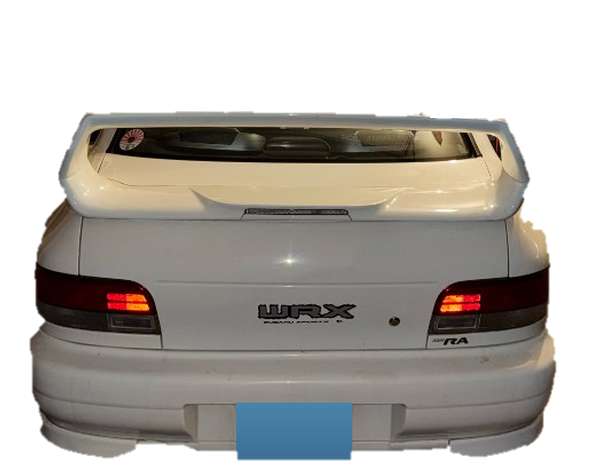
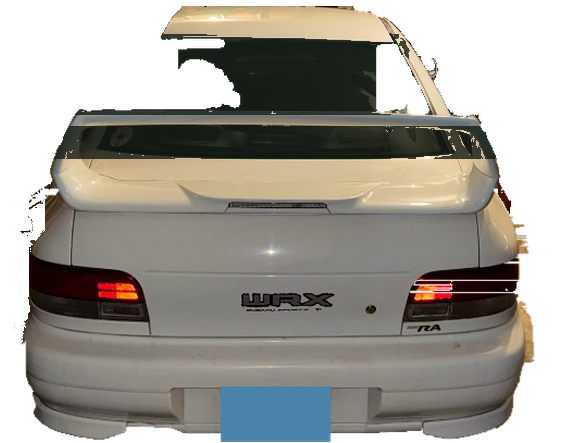
Finish the player WRX so the rear is complete, the glass is tinted, and paint recolors the body.

Changed region(s): [[0.0302, 0.0, 0.9663, 0.9977], [0.4227, 0.6456, 0.6039, 0.7043], [0.4529, 0.5282, 0.5133, 0.5869]]

diff --git a/index.html b/index.html
@@ -2291,7 +2291,7 @@
   const WRX_NEAR_IMG = new Image();
   WRX_NEAR_IMG.src = 'assets/wrx-near.png';
   const WRX_BASE_W = 62;
-  const WRX_GROUND = 0.979;
+  const WRX_GROUND = 0.995;
   // Single pipe, left of the plate, on the shared bumper anchor.
   const WRX_TIPS = [{ fx: 0.36, fy: 0.975, spread: 0 }];
   const overlay = document.getElementById('overlay');
@@ -5487,6 +5487,9 @@
           if (look.id === 'paint') {
             paintSheet = null;
             paintSheetKey = '';
+            wrxPaintFar = null;
+            wrxPaintNear = null;
+            wrxPaintKey = '';
           }
           saveLookColors();
           saveLooks();
@@ -6660,25 +6663,19 @@
     { model: 'Tesla Model S Plaid', kind: 'sports', weight: 2, cool: true, colors: ['#1c2833', '#c0392b', '#ecf0f1', '#148f77'], bodyScale: 0.93, roof: 0.72, base: 56 },
     { model: 'Ford Mustang GT', kind: 'sports', weight: 2, cool: true, colors: ['#c0392b', '#1c2833', '#ecf0f1', '#196f3d'], bodyScale: 0.94, roof: 0.74, base: 51 },
     { model: 'Nissan GT-R', kind: 'sports', weight: 1, cool: true, colors: ['#1c2833', '#c0392b', '#ecf0f1', '#5d6d7e'], bodyScale: 0.92, roof: 0.7, base: 54 },
-    { model: 'Subaru WRX STI', kind: 'sports', weight: 0, cool: true, sprite: 'wrx', colors: ['#f4f1ea'], bodyScale: 1, roof: 1, base: 26 },
     { model: 'Lamborghini Countach', kind: 'sports', weight: 0, cool: true, colors: ['#f39c12', '#e67e22', '#d35400', '#ecf0f1'], bodyScale: 0.9, roof: 0.48, base: 62 }
   ];
   const COMMON_CAR_FLEET = REAL_CAR_FLEET.filter(c => !c.cool);
-  const COOL_CAR_FLEET = REAL_CAR_FLEET.filter(c => c.cool && c.model !== 'Lamborghini Countach' && c.sprite !== 'wrx');
+  const COOL_CAR_FLEET = REAL_CAR_FLEET.filter(c => c.cool && c.model !== 'Lamborghini Countach');
   const COUNTACH_CAR = REAL_CAR_FLEET.find(c => c.model === 'Lamborghini Countach');
-  const WRX_CAR = REAL_CAR_FLEET.find(c => c.sprite === 'wrx');
   const POLICE_CAR = REAL_CAR_FLEET.find(c => c.kind === 'police');
   const COMMON_CAR_FLEET_TOTAL = COMMON_CAR_FLEET.reduce((s, c) => s + c.weight, 0);
   const COOL_CAR_SPAWN_CHANCE = 0.035;
   const COUNTACH_SPAWN_CHANCE = 0.014;
-  const WRX_SPAWN_CHANCE = 0.07;
   const POLICE_SPAWN_CHANCE = 0.12;
-  const FORCE_WRX = new URLSearchParams(location.search).get('wrx') === '1';
 
   function pickRealCar() {
-    if (FORCE_WRX && WRX_CAR) return WRX_CAR;
     if (Math.random() < COUNTACH_SPAWN_CHANCE && COUNTACH_CAR) return COUNTACH_CAR;
-    if (Math.random() < WRX_SPAWN_CHANCE && WRX_CAR) return WRX_CAR;
     if (Math.random() < COOL_CAR_SPAWN_CHANCE && COOL_CAR_FLEET.length) {
       return COOL_CAR_FLEET[Math.floor(Math.random() * COOL_CAR_FLEET.length)];
     }
@@ -6743,7 +6740,7 @@
   function spawnTraffic(d, aheadZ) {
     const lane = [-DW.LANE, 0, DW.LANE][Math.floor(Math.random() * 3)];
     const def = pickRealCar();
-    const ahead = FORCE_WRX ? 55 + Math.random() * 140 : (aheadZ != null ? aheadZ : 420 + Math.random() * 640);
+    const ahead = aheadZ != null ? aheadZ : 420 + Math.random() * 640;
     const stats = CAR_KIND_STATS[def.kind] || CAR_KIND_STATS.sedan;
     const rear = resolveRearProfile(def);
     const base = def.base != null ? def.base : stats.base;
@@ -9841,6 +9838,20 @@
     if (lookOn('hitch')) drawPlayerTowChain(drawW, drawH, s, sway);
   }
 
+  // White WRX panels. Glass, lamps, badge, and the blue plate stay as drawn.
+  function isWrxBody(r, g, b, a) {
+    if (a < 110) return false;
+    const l = (r + g + b) / 3;
+    if (l < 78) return false;
+    const mx = Math.max(r, g, b);
+    const mn = Math.min(r, g, b);
+    if (mx - mn > 120) return false;
+    if (r > g + 48 && r > b + 30 && r > 80) return false;
+    if (b > r + 20 && b > 100 && b + 10 >= g) return false;
+    if (g > r + 12 && g > b + 8) return false;
+    return r + 8 >= b;
+  }
+
   // Body metal only. Glass, lamps, badge, plate, and tires stay as drawn.
   function isBodyPanel(r, g, b, a) {
     if (a < 180) return false;
@@ -9873,6 +9884,9 @@
 
   let paintSheet = null;
   let paintSheetKey = '';
+  let wrxPaintFar = null;
+  let wrxPaintNear = null;
+  let wrxPaintKey = '';
 
   function rgbToHsl(r, g, b) {
     const rn = r / 255;
@@ -9939,6 +9953,44 @@
     return sheet;
   }
 
+  function recolorWrx(img, tone) {
+    const sheet = document.createElement('canvas');
+    sheet.width = img.naturalWidth;
+    sheet.height = img.naturalHeight;
+    const g = sheet.getContext('2d', { willReadFrequently: true });
+    g.drawImage(img, 0, 0);
+    const image = g.getImageData(0, 0, sheet.width, sheet.height);
+    const d = image.data;
+    for (let i = 0; i < d.length; i += 4) {
+      if (!isWrxBody(d[i], d[i + 1], d[i + 2], d[i + 3])) continue;
+      const luma = (0.2126 * d[i] + 0.7152 * d[i + 1] + 0.0722 * d[i + 2]) / 255;
+      const light = Math.min(0.82, Math.max(0.2, luma * 0.62 + 0.16));
+      let [nr, ng, nb] = hslToRgb(tone.h, tone.s, light);
+      const pull = tone.pull;
+      nr = Math.round(nr + (tone.target[0] - nr) * pull);
+      ng = Math.round(ng + (tone.target[1] - ng) * pull);
+      nb = Math.round(nb + (tone.target[2] - nb) * pull);
+      d[i] = nr;
+      d[i + 1] = ng;
+      d[i + 2] = nb;
+    }
+    g.putImageData(image, 0, 0);
+    return sheet;
+  }
+
+  function wrxPaintPair() {
+    if (!carPaintOn()) return null;
+    if (!WRX_FAR_IMG.complete || !WRX_FAR_IMG.naturalWidth) return null;
+    const tone = paintTone();
+    const nearOk = WRX_NEAR_IMG.complete && WRX_NEAR_IMG.naturalWidth > 0;
+    const key = `${tone.h}|${tone.s}|${tone.pull}|${tone.target.join(',')}|${nearOk ? 1 : 0}`;
+    if (wrxPaintKey === key && wrxPaintFar) return { far: wrxPaintFar, near: wrxPaintNear };
+    wrxPaintFar = recolorWrx(WRX_FAR_IMG, tone);
+    wrxPaintNear = nearOk ? recolorWrx(WRX_NEAR_IMG, tone) : null;
+    wrxPaintKey = key;
+    return { far: wrxPaintFar, near: wrxPaintNear };
+  }
+
   // Player car — the photo WRX. The chase cam closes in as you slow down,
   // and the sprite blends toward the nearer photo so the wing grows.
   function drawPlayerCar(x, y, scale, opts = {}) {
@@ -9989,7 +10041,12 @@
     ctx.fill();
 
     if (ride) {
-      const nearReady = WRX_NEAR_IMG.complete && WRX_NEAR_IMG.naturalWidth > 0;
+      const painted = wrxPaintPair();
+      const farImg = painted ? painted.far : WRX_FAR_IMG;
+      const nearImg = painted && painted.near ? painted.near : WRX_NEAR_IMG;
+      const nearReady = nearImg === WRX_NEAR_IMG
+        ? WRX_NEAR_IMG.complete && WRX_NEAR_IMG.naturalWidth > 0
+        : true;
       // Cruise cam sits back (scale ~1.3). Slowing down pulls it in past ~2.2.
       const tRaw = (s - 1.22) / (2.2 - 1.22);
       const tClamp = Math.max(0, Math.min(1, tRaw));
@@ -9999,11 +10056,11 @@
       const top = -drawH * WRX_GROUND;
       if (t < 1) {
         ctx.globalAlpha = baseAlpha * (1 - t);
-        ctx.drawImage(WRX_FAR_IMG, -drawW / 2, top, drawW, drawH);
+        ctx.drawImage(farImg, -drawW / 2, top, drawW, drawH);
       }
       if (t > 0) {
         ctx.globalAlpha = baseAlpha * t;
-        ctx.drawImage(WRX_NEAR_IMG, -drawW / 2, top, drawW, drawH);
+        ctx.drawImage(nearImg, -drawW / 2, top, drawW, drawH);
       }
       ctx.globalAlpha = baseAlpha;
     } else {
@@ -13747,15 +13804,12 @@
       };
       if (car.kind === 'police') {
         drawPoliceCar(p.x, p.y + (car.bob || 0) * p.scale, policeCarScale(p), { ...carOpts, alert: 'low' });
-      } else if (car.sprite === 'wrx') {
-        const wrxScale = Math.min(3.2, Math.max(0.12, p.scale * 0.52));
-        drawWrxCar(p.x, p.y + (car.bob || 0) * p.scale, wrxScale, carOpts);
       } else {
         const carScale = Math.min(1.35, p.scale * 0.55);
         drawLowPolyCar(p.x, p.y + (car.bob || 0) * p.scale, carScale, car.kind, carOpts);
       }
       // Taillight glow on live cars ahead. The photo WRX already has lamps.
-      if (!car.smashed && car.sprite !== 'wrx' && car.z > d.z + 40) {
+      if (!car.smashed && car.z > d.z + 40) {
         const gw = 18 * p.scale;
         for (const tx of [-11, 11]) {
           const gx = p.x + tx * p.scale;
